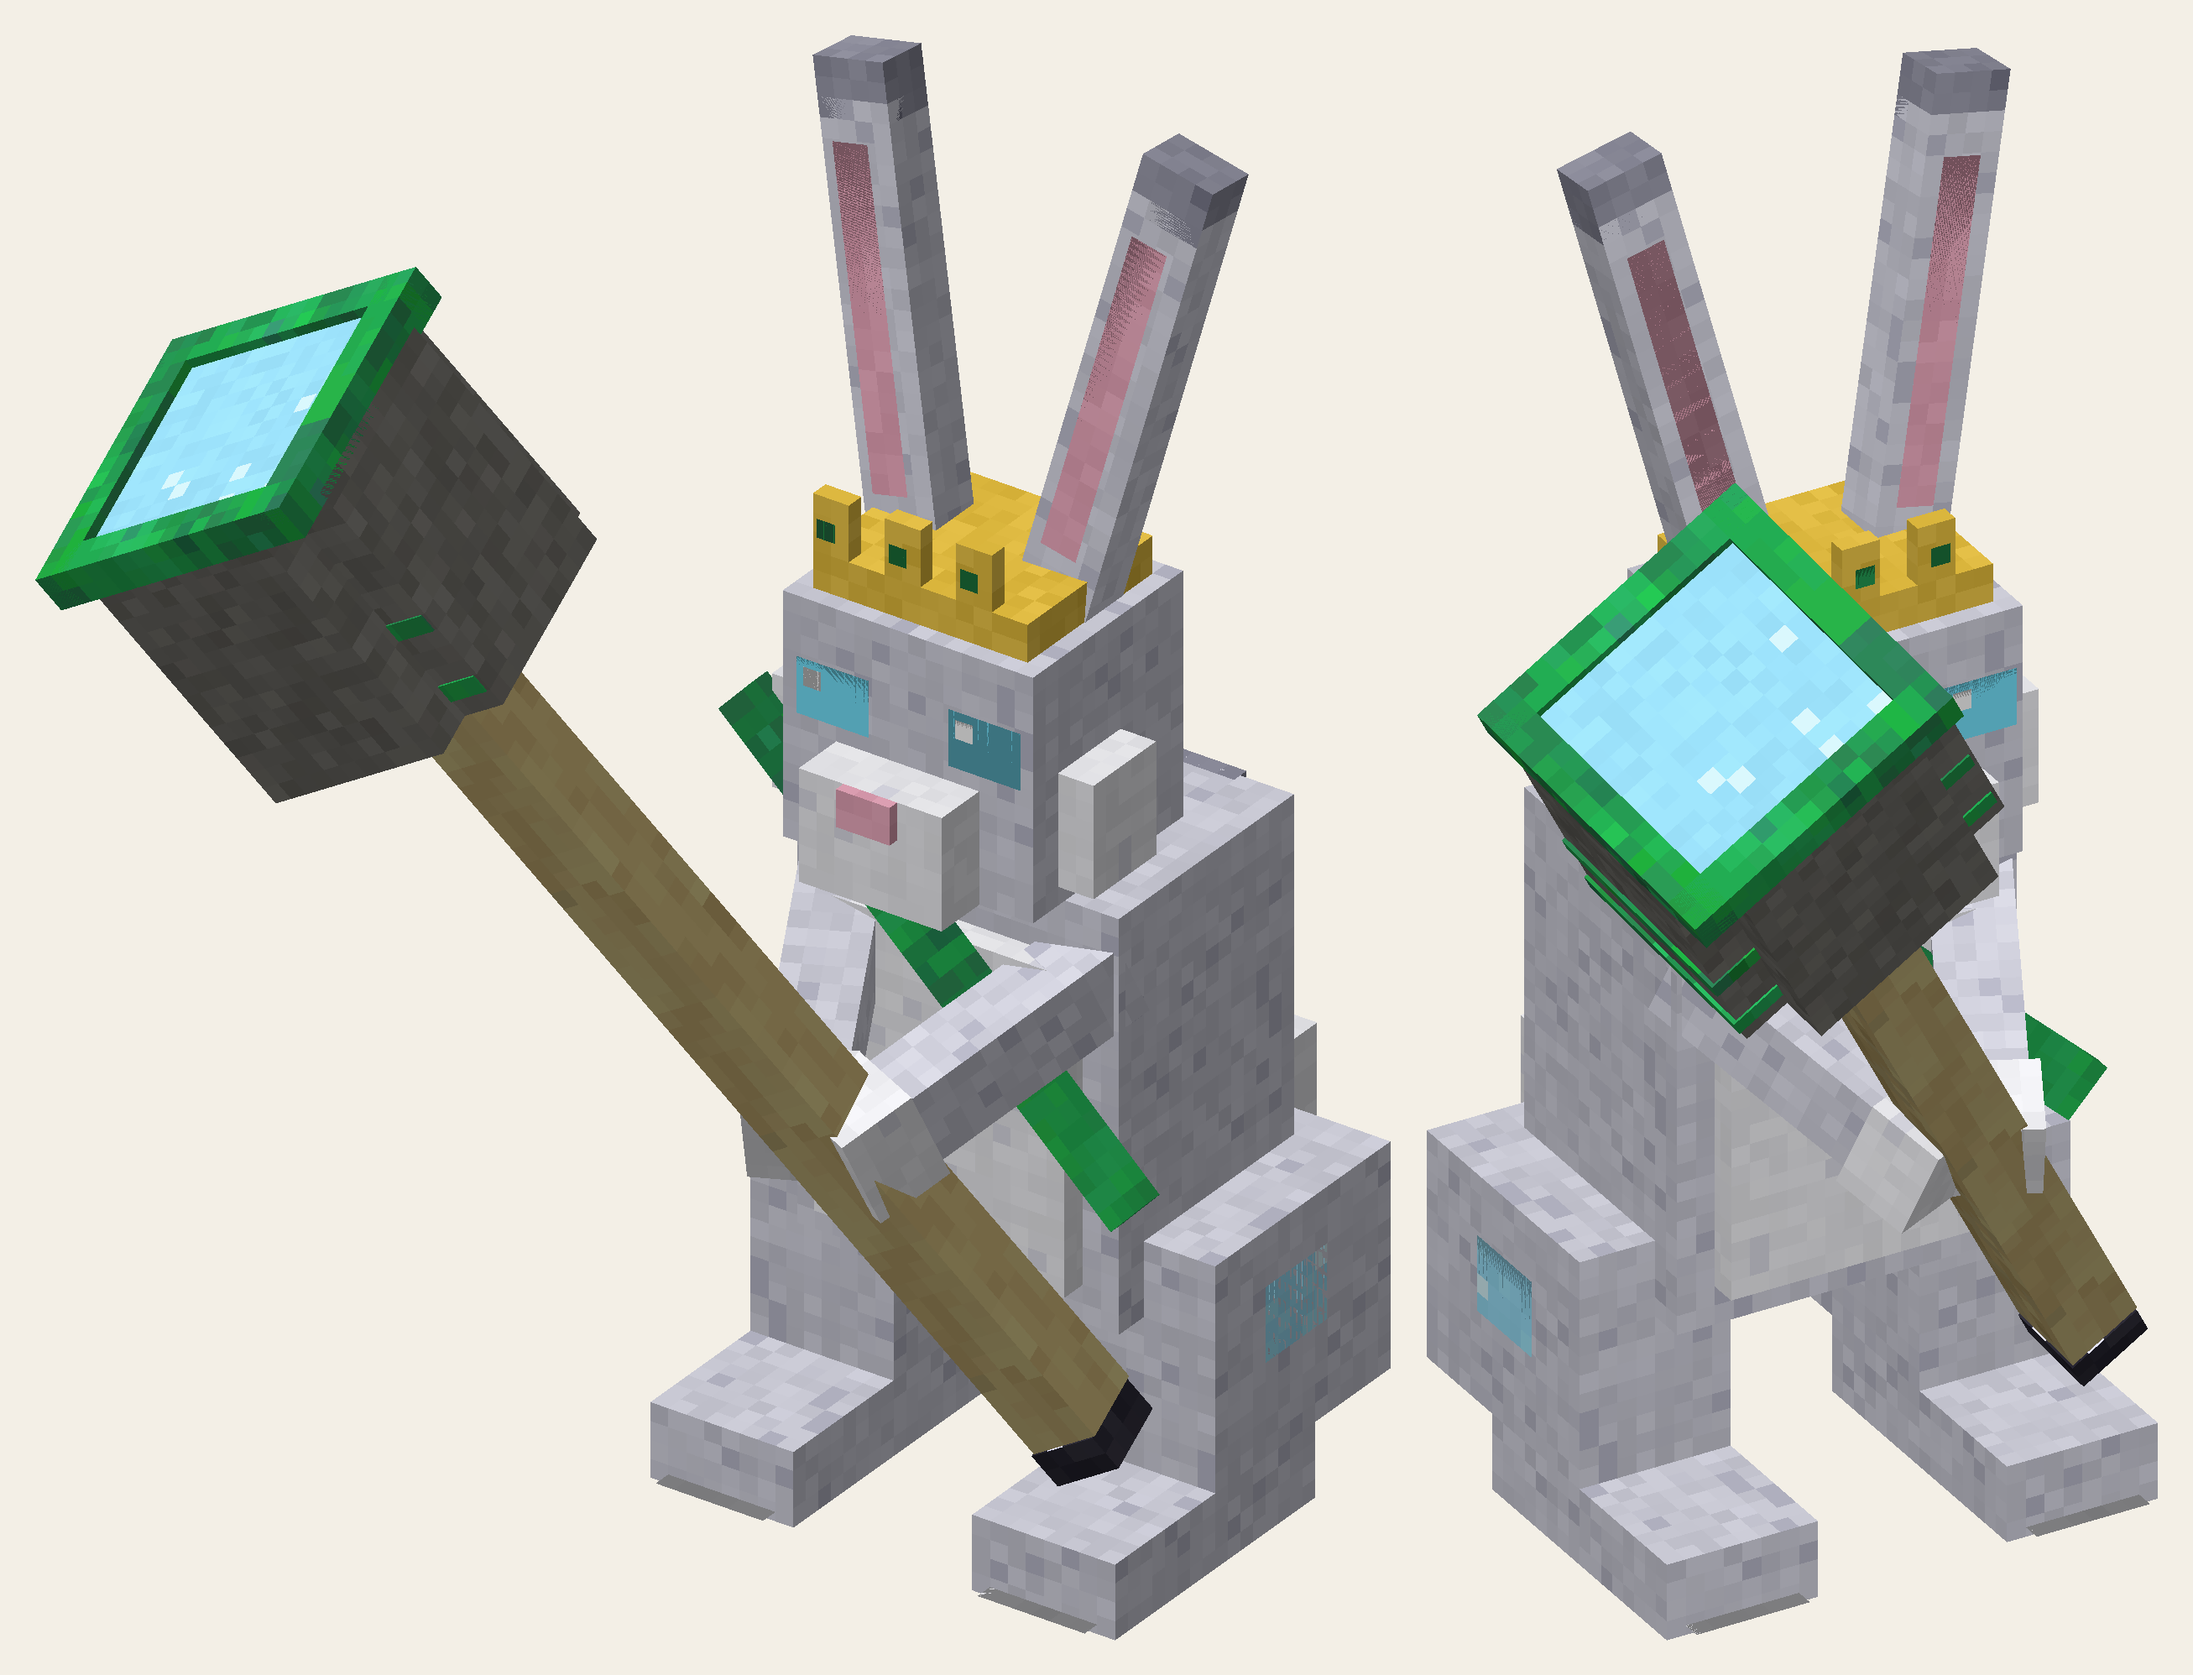
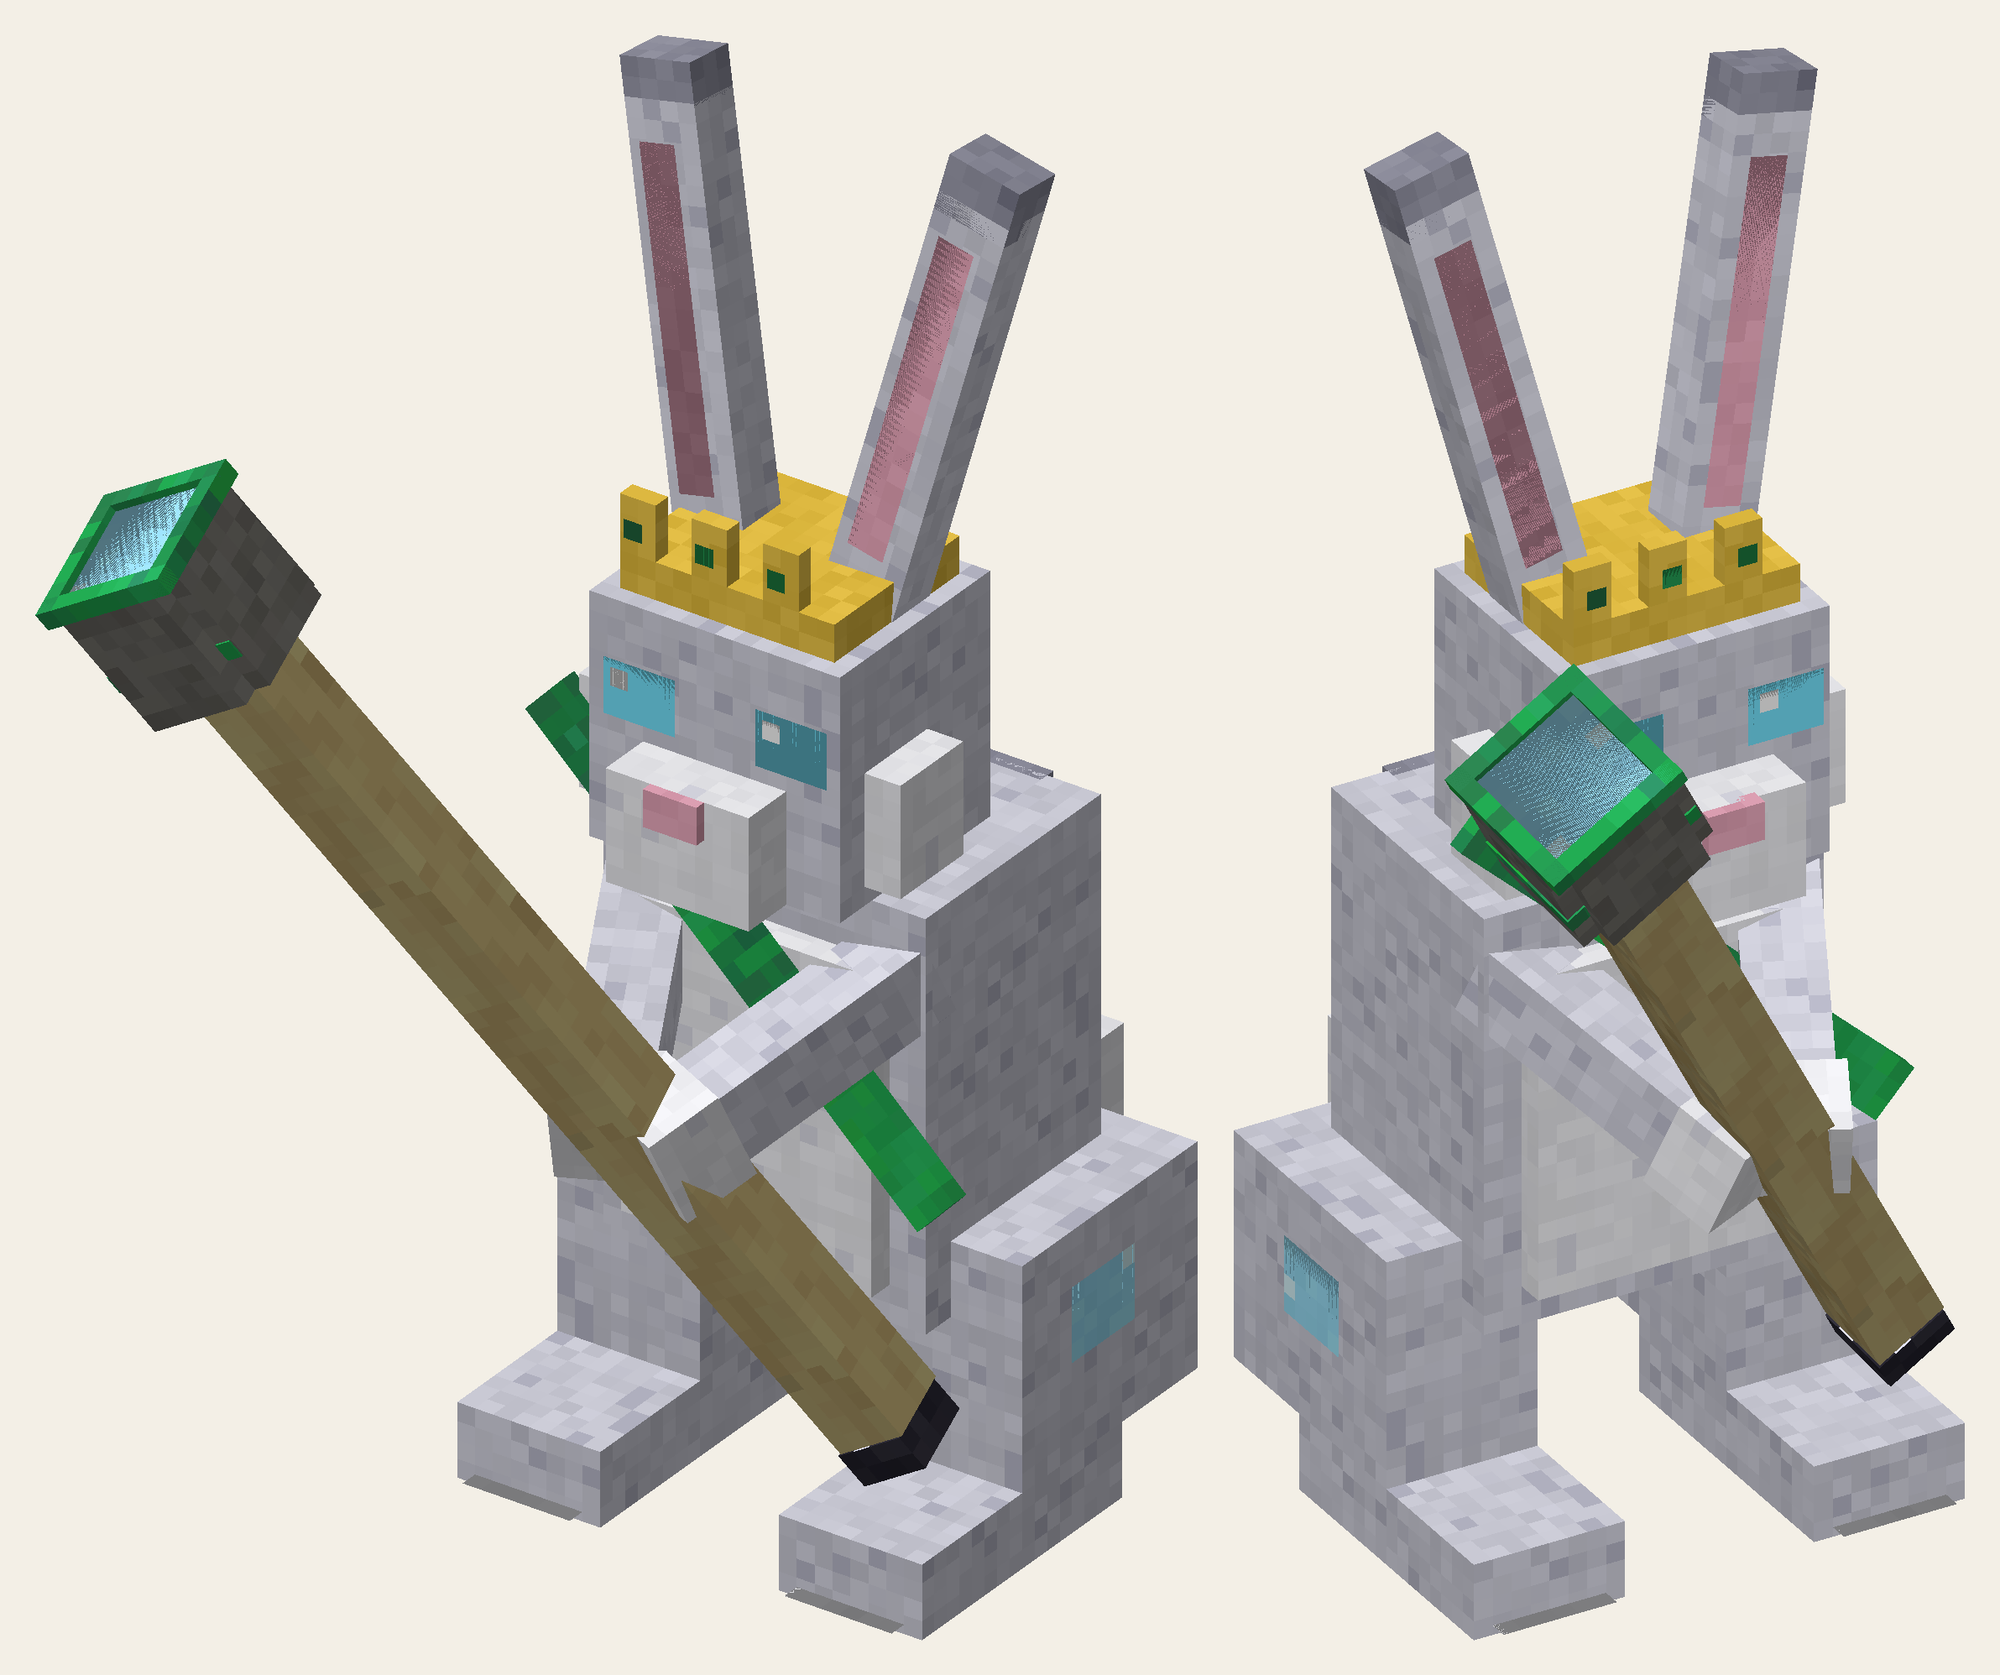
Moon rabbit boss: a much smaller mortar head on its staff
Claude-Session: https://claude.ai/code/session_01M5QtgiQGYPBXfdb72XCowG

diff --git a/tools/moon_concept.py b/tools/moon_concept.py
@@ -108,10 +108,10 @@ def great_rabbit_detailed():
         m.box(SILVER, (-2, -1, -2), (4, 13, 4), part=a); m.box(WHITE_FUR, (-2.5, 11, -2.5), (5, 4, 5), part=a)
     st = m.part([0, 20, -15], (0.35, 0, -0.55))                                                       # the giant mortar staff, raised
     m.box(WOOD, (-2, -30, -2), (4, 50, 4), part=st); m.box(METEOR, (-2.1, 20, -2.1), (4.2, 2.5, 4.2), part=st)   # haft, a simple meteor-iron cap
-    for (w, d) in ((16, 11), (11, 16)): m.box(STONE_M, (-w / 2, -44, -d / 2), (w, 14, d), part=st)          # the mortar head
-    for (x, z, w, d) in ((-8, -8, 16, 2), (-8, 6, 16, 2), (-8, -8, 2, 16), (6, -8, 2, 16)): m.box(JADE, (x, -45.5, z), (w, 2, d), part=st)
-    m.box(MOON_GLOW, (-6, -45, -6), (12, 0.6, 12), part=st)
-    for y in (-36, -32): m.box(JADE, (-8.2, y, -5.6), (16.4, 1.2, 11.2), part=st)                    # jade bands round the head
+    for (w, d) in ((8, 6), (6, 8)): m.box(STONE_M, (-w / 2, -37, -d / 2), (w, 7, d), part=st)              # a small mortar head
+    for (x, z, w, d) in ((-4, -4, 8, 1), (-4, 3, 8, 1), (-4, -4, 1, 8), (3, -4, 1, 8)): m.box(JADE, (x, -38, z), (w, 1, d), part=st)
+    m.box(MOON_GLOW, (-3, -37.6, -3), (6, 0.5, 6), part=st)
+    m.box(JADE, (-4.1, -33, -3.1), (8.2, 1, 6.2), part=st)                                            # a jade band
     return m
 
 def moon_rabbit(): m = Model(1); rabbit(m); return m
